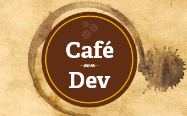
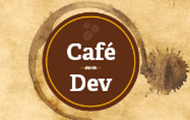
change pictures from mailing page

diff --git a/mailing.html b/mailing.html
@@ -77,28 +77,28 @@ description: HE:labs é uma empresa pioneira em desenvolvimento de sistemas web,
         <br clear="all">
       </li>
       <li>
-        <a href="/workshops/startupdev"><img src="/images/msg-startupdev.jpg"/></a>
+        <a href="/workshops/startupdev"><img src="/images/msg-startupdev.png"/></a>
         <span>13/12/2012</span>
         <h4>Super desconto para o workshop Startup DEV</h4>
         <p>Feito para programadores e designers que desejam aprimorar seus conhecimentos e aprender a desenvolver software com a agilidade que só o <a href="http://startupdev.com.br">Startup DEV</a> tem.</p>
         <br clear="all">
       </li>
       <li>
-        <a href="http://catarse.me/pt/usuario-mcommerce-brasil"><img src="/images/msg-mcommerce.jpg"/></a>
+        <a href="http://catarse.me/pt/usuario-mcommerce-brasil"><img src="/images/msg-mcommerce.png"/></a>
         <span>06/12/2012</span>
         <h4>Apoiamos o projeto Usuário M-commerce Brasil no Catarse</h4>
         <p>Nosso trabalho está muito relacionado ao Design Thinking. Quando soubemos que a Ganthe, empresa especializada em Design Thinking, estava utilizando o crowdfunding para realizar uma pesquisa com objetivo de mapear o perfil nacional dos usuários de smartphones e tablets no que diz respeito ao comportamento de compras, tivemos que apoiar com a cota máxima!</p>
         <br clear="all">
       </li> 
       <li>
-        <a href="/workshops/rails-for-zombies-two"><img src="/images/msg-railszombies.jpg"/></a>
+        <a href="/workshops/rails-for-zombies-two"><img src="/images/msg-railszombies.png"/></a>
         <span>30/11/2012</span>
         <h4>Sorteio e Desconto para o Rails For Zombies 2</h4>
         <p>Sorteamos uma vaga para o curso Rails For Zombies 2 e ainda demos um desconto de 20% nos workshops exclusivo para os participantes da mailing.</p>
         <br clear="all">
       </li> 
       <li>
-        <a href="http://workshop.bootstrappers.com.br"><img src="/images/msg-bootstrappers.jpg"/></a>
+        <a href="http://workshop.bootstrappers.com.br"><img src="/images/msg-bootstrappers.png"/></a>
         <span>22/10/2012</span>
         <h4>Acesso completo ao material do Workshop Bootstrappers</h4>
         <p>Por meio de uma parceria com o Workshop Bootstrappers oferecemos todo o material gratuitamente com mais de 7 horas de vídeo e 250 slides sobre temas relevantes par quem deseja empreender.</p>
